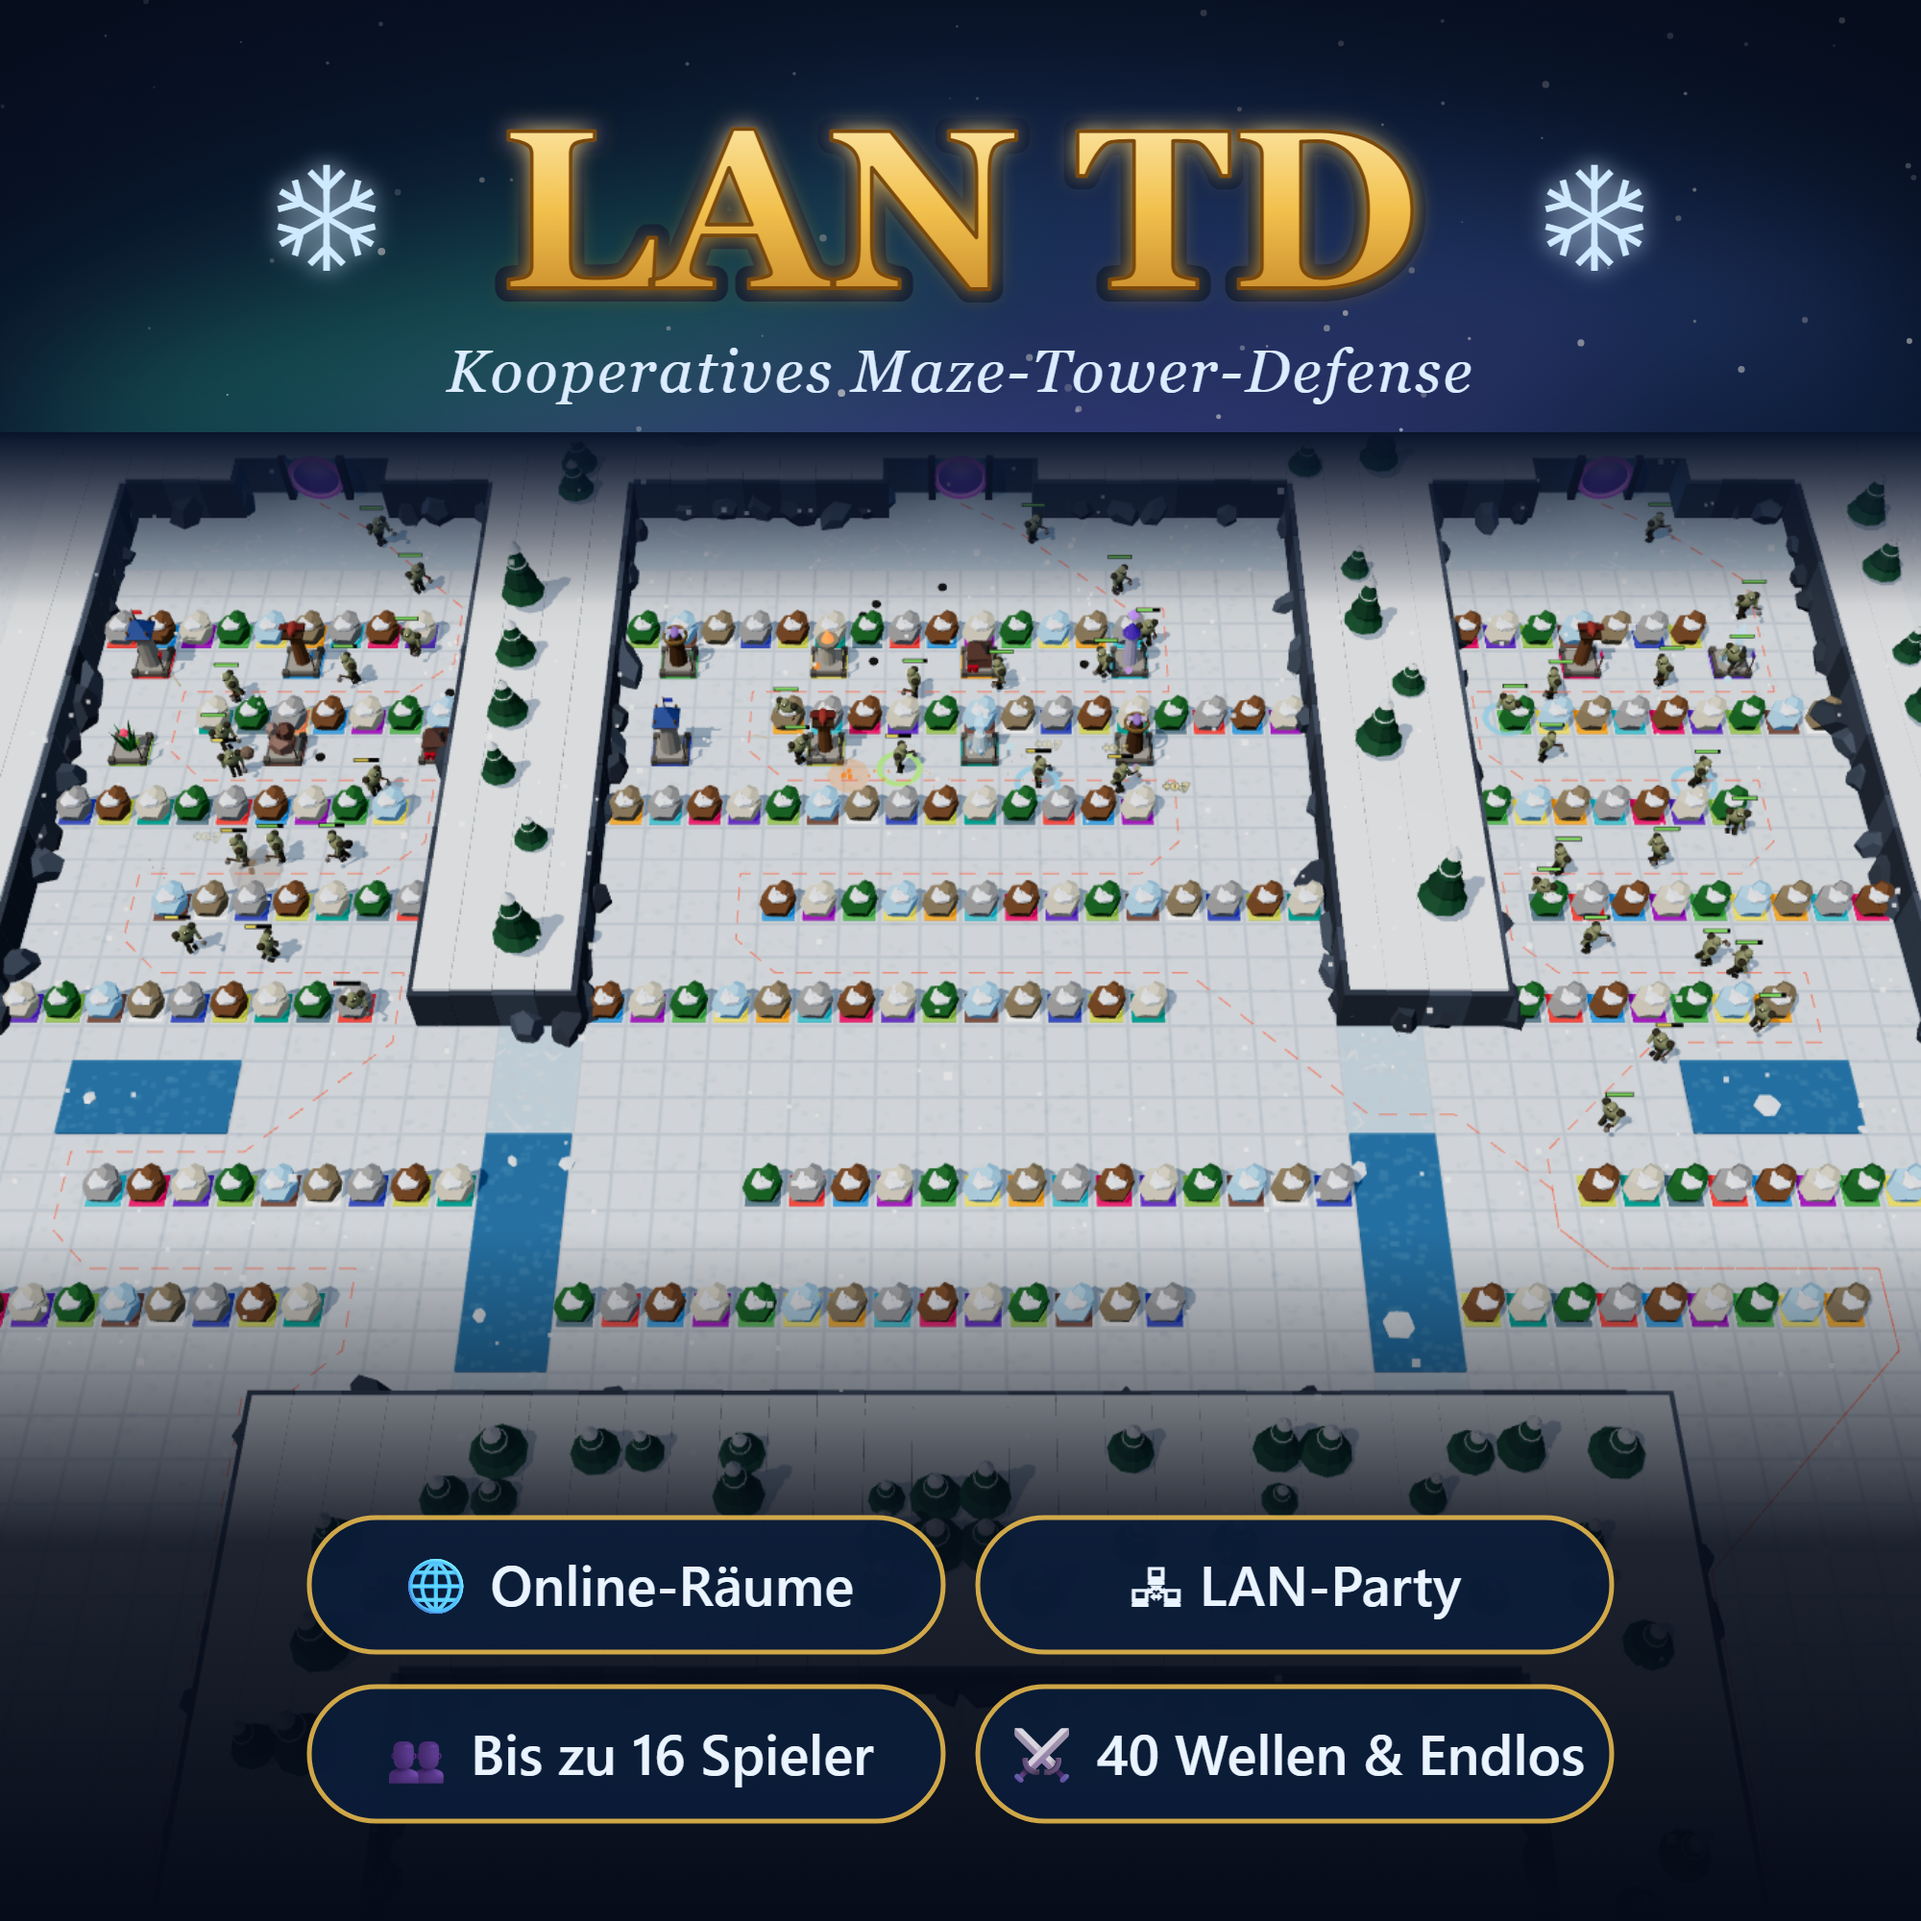
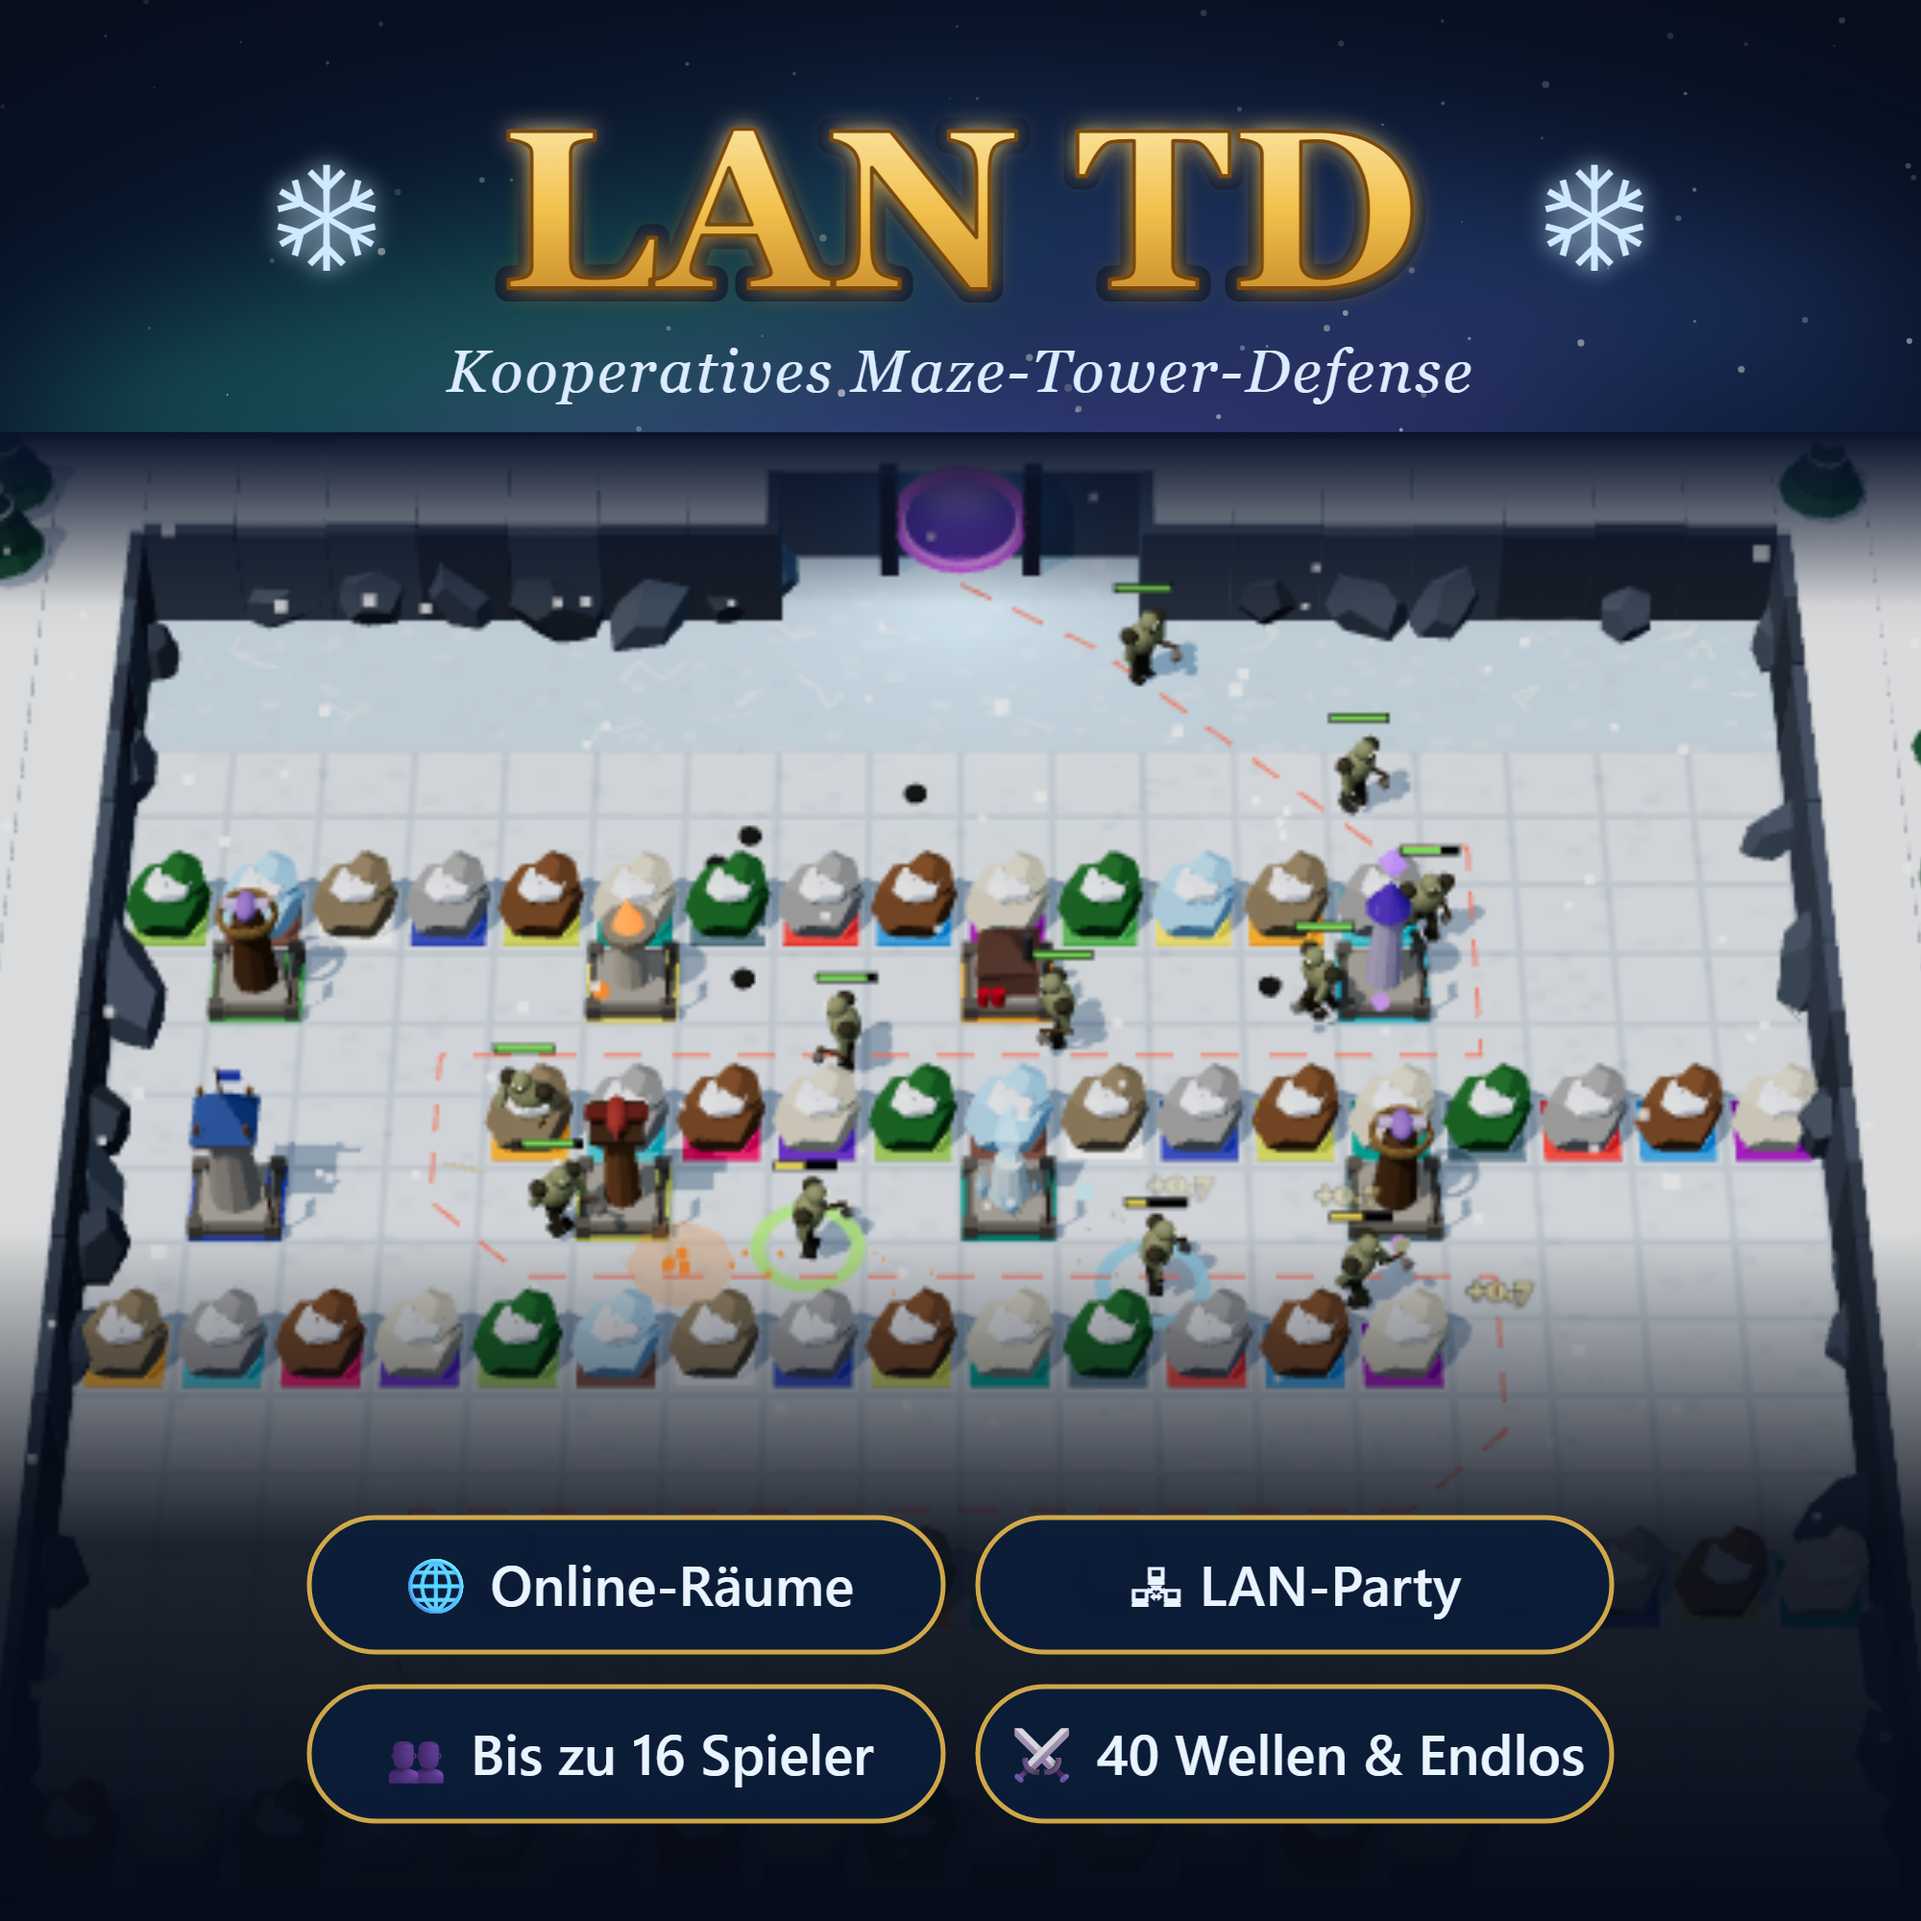
Promo image: zoom on upper center lane

Changed region(s): [[0.0, 0.217, 1.0, 0.806]]

diff --git a/docs/promo/promo.html b/docs/promo/promo.html
@@ -41,7 +41,7 @@
     <ellipse cx="520" cy="230" rx="320" ry="40" fill="#b45bff" opacity="0.35" transform="rotate(-5 520 230)"/>
   </g>
   <g id="stars"></g>
-  <image href="game-raw.png" x="0" y="16" width="1000" height="1000" preserveAspectRatio="none" clip-path="url(#fieldclip)"/>
+  <image href="game-raw.png" x="-750" y="-311" width="2500" height="2500" preserveAspectRatio="none" clip-path="url(#fieldclip)"/>
   <rect x="0" y="225" width="1000" height="90" fill="url(#imgfade)"/>
   <g id="scene" display="none"></g>
   <g id="shots" display="none"></g>
@@ -236,6 +236,7 @@ feats.forEach(([icon, label], i) => {
 </script>
 </body>
 </html>
+
 
 
 
